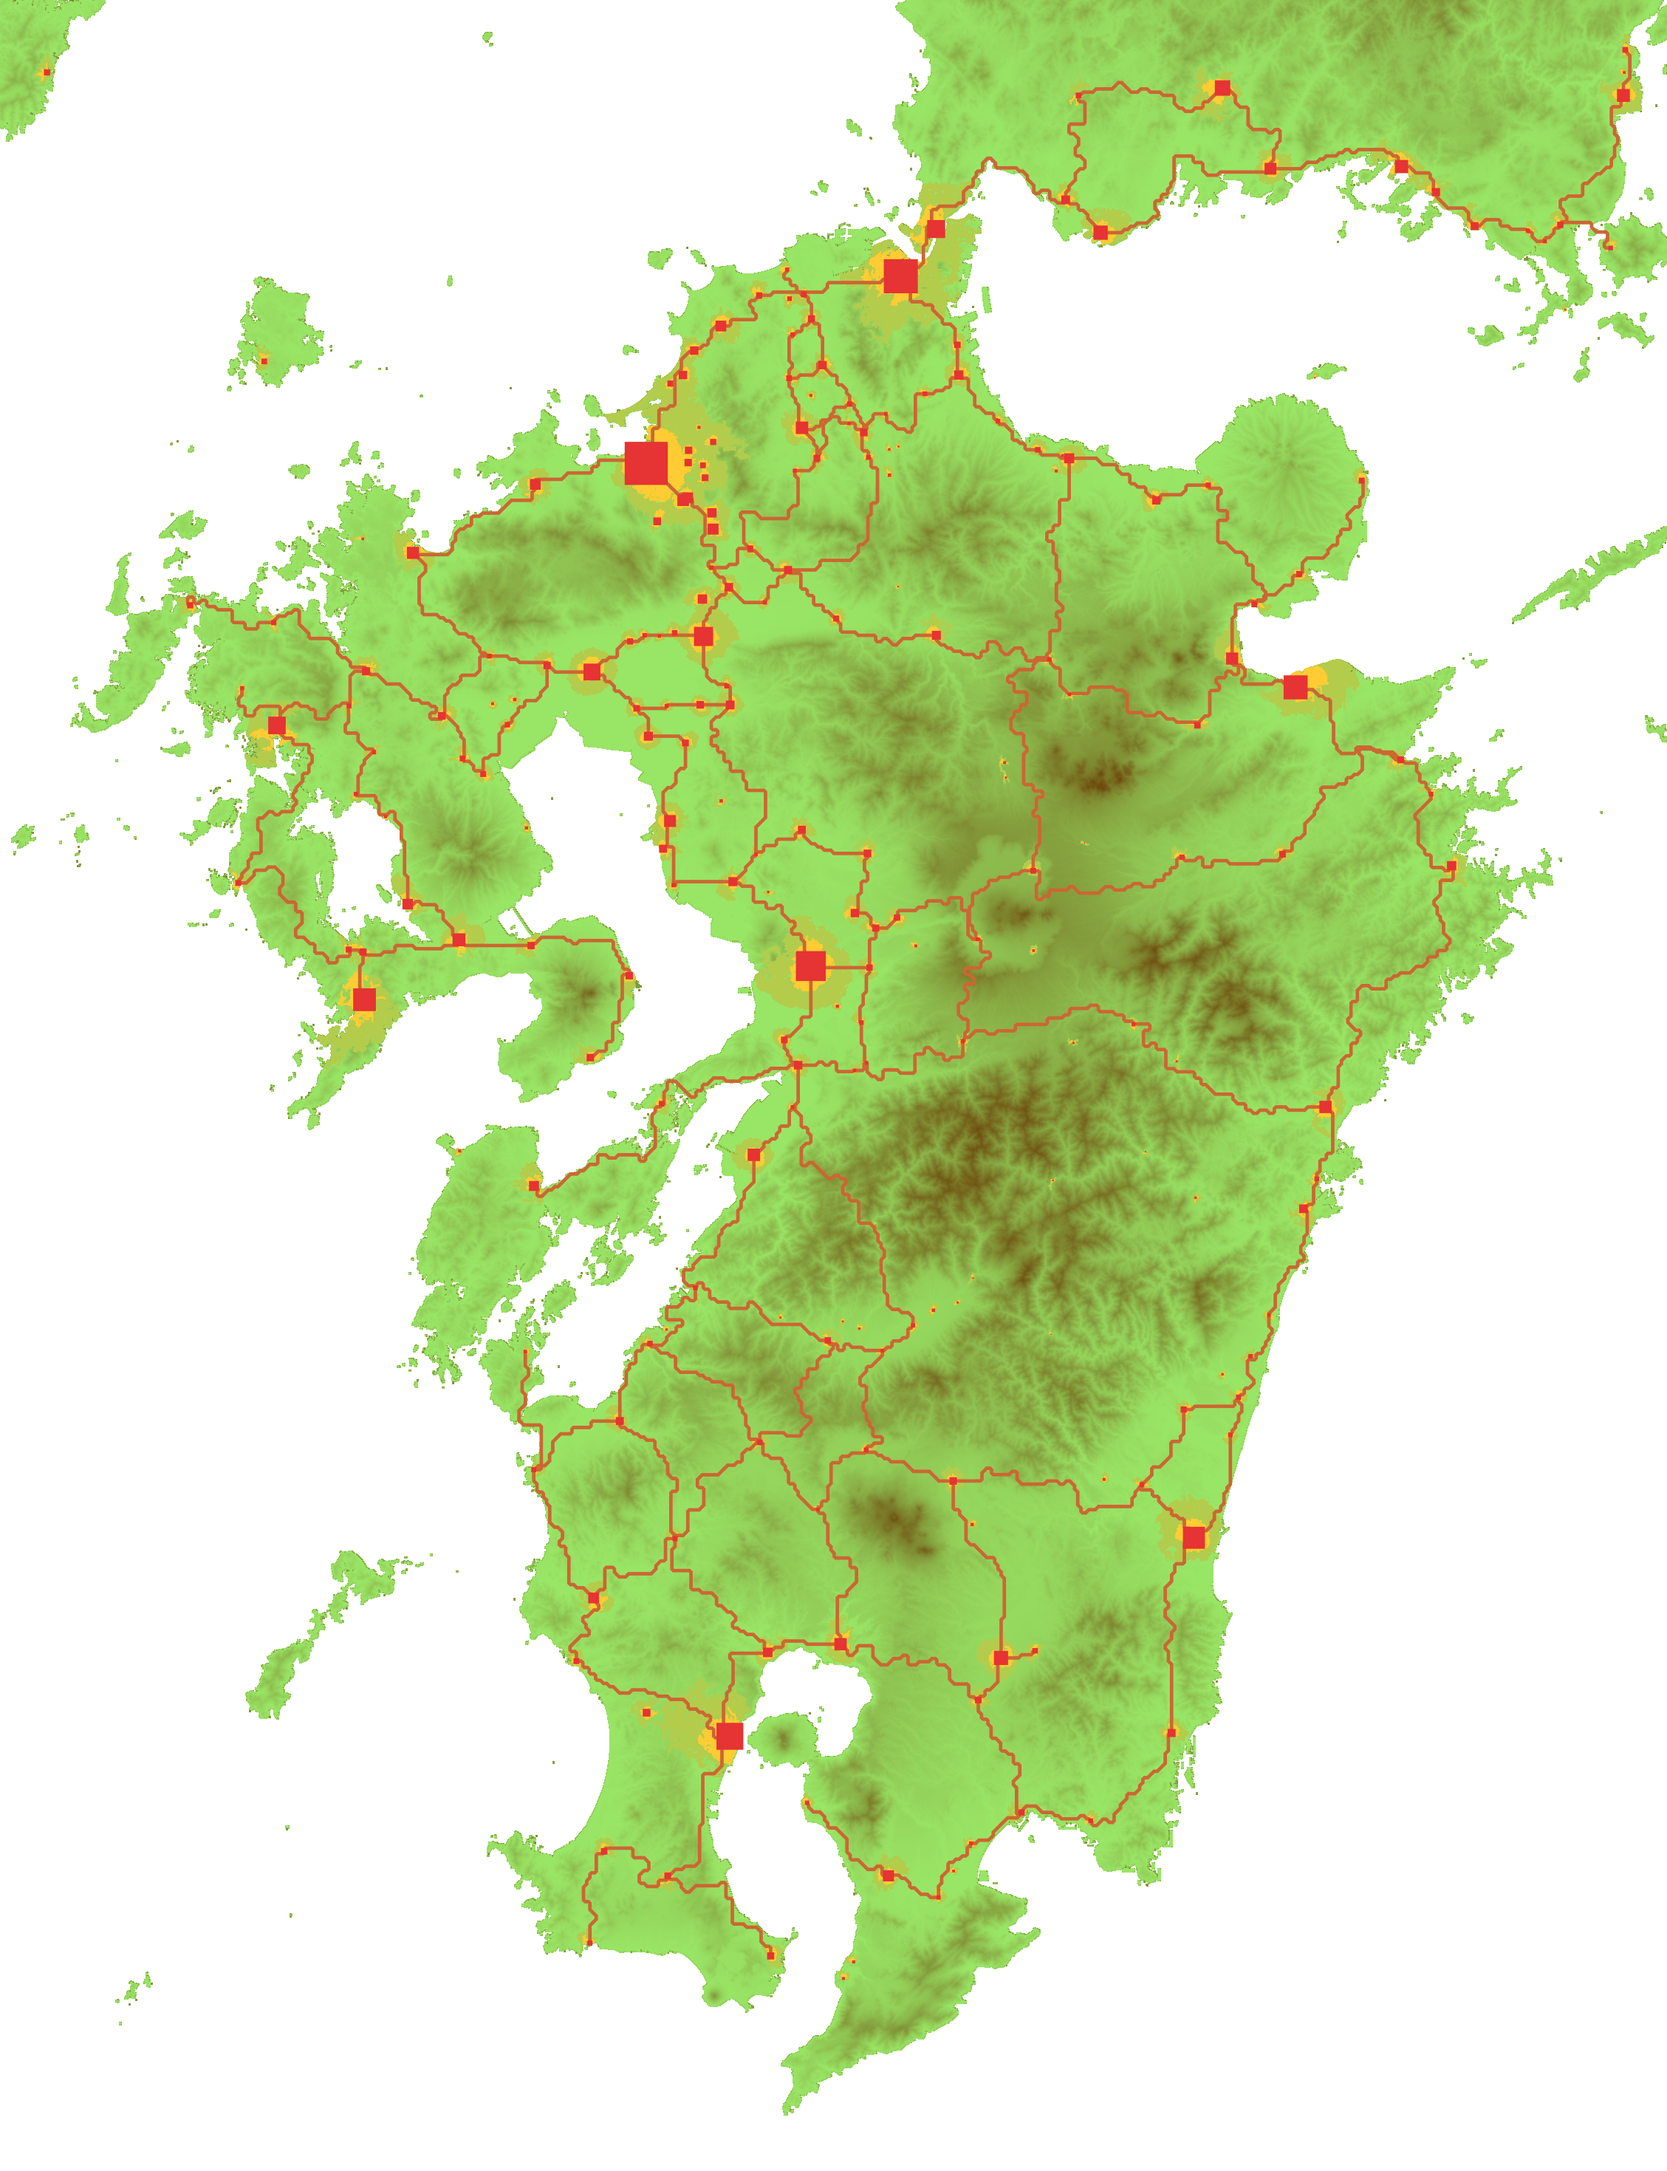
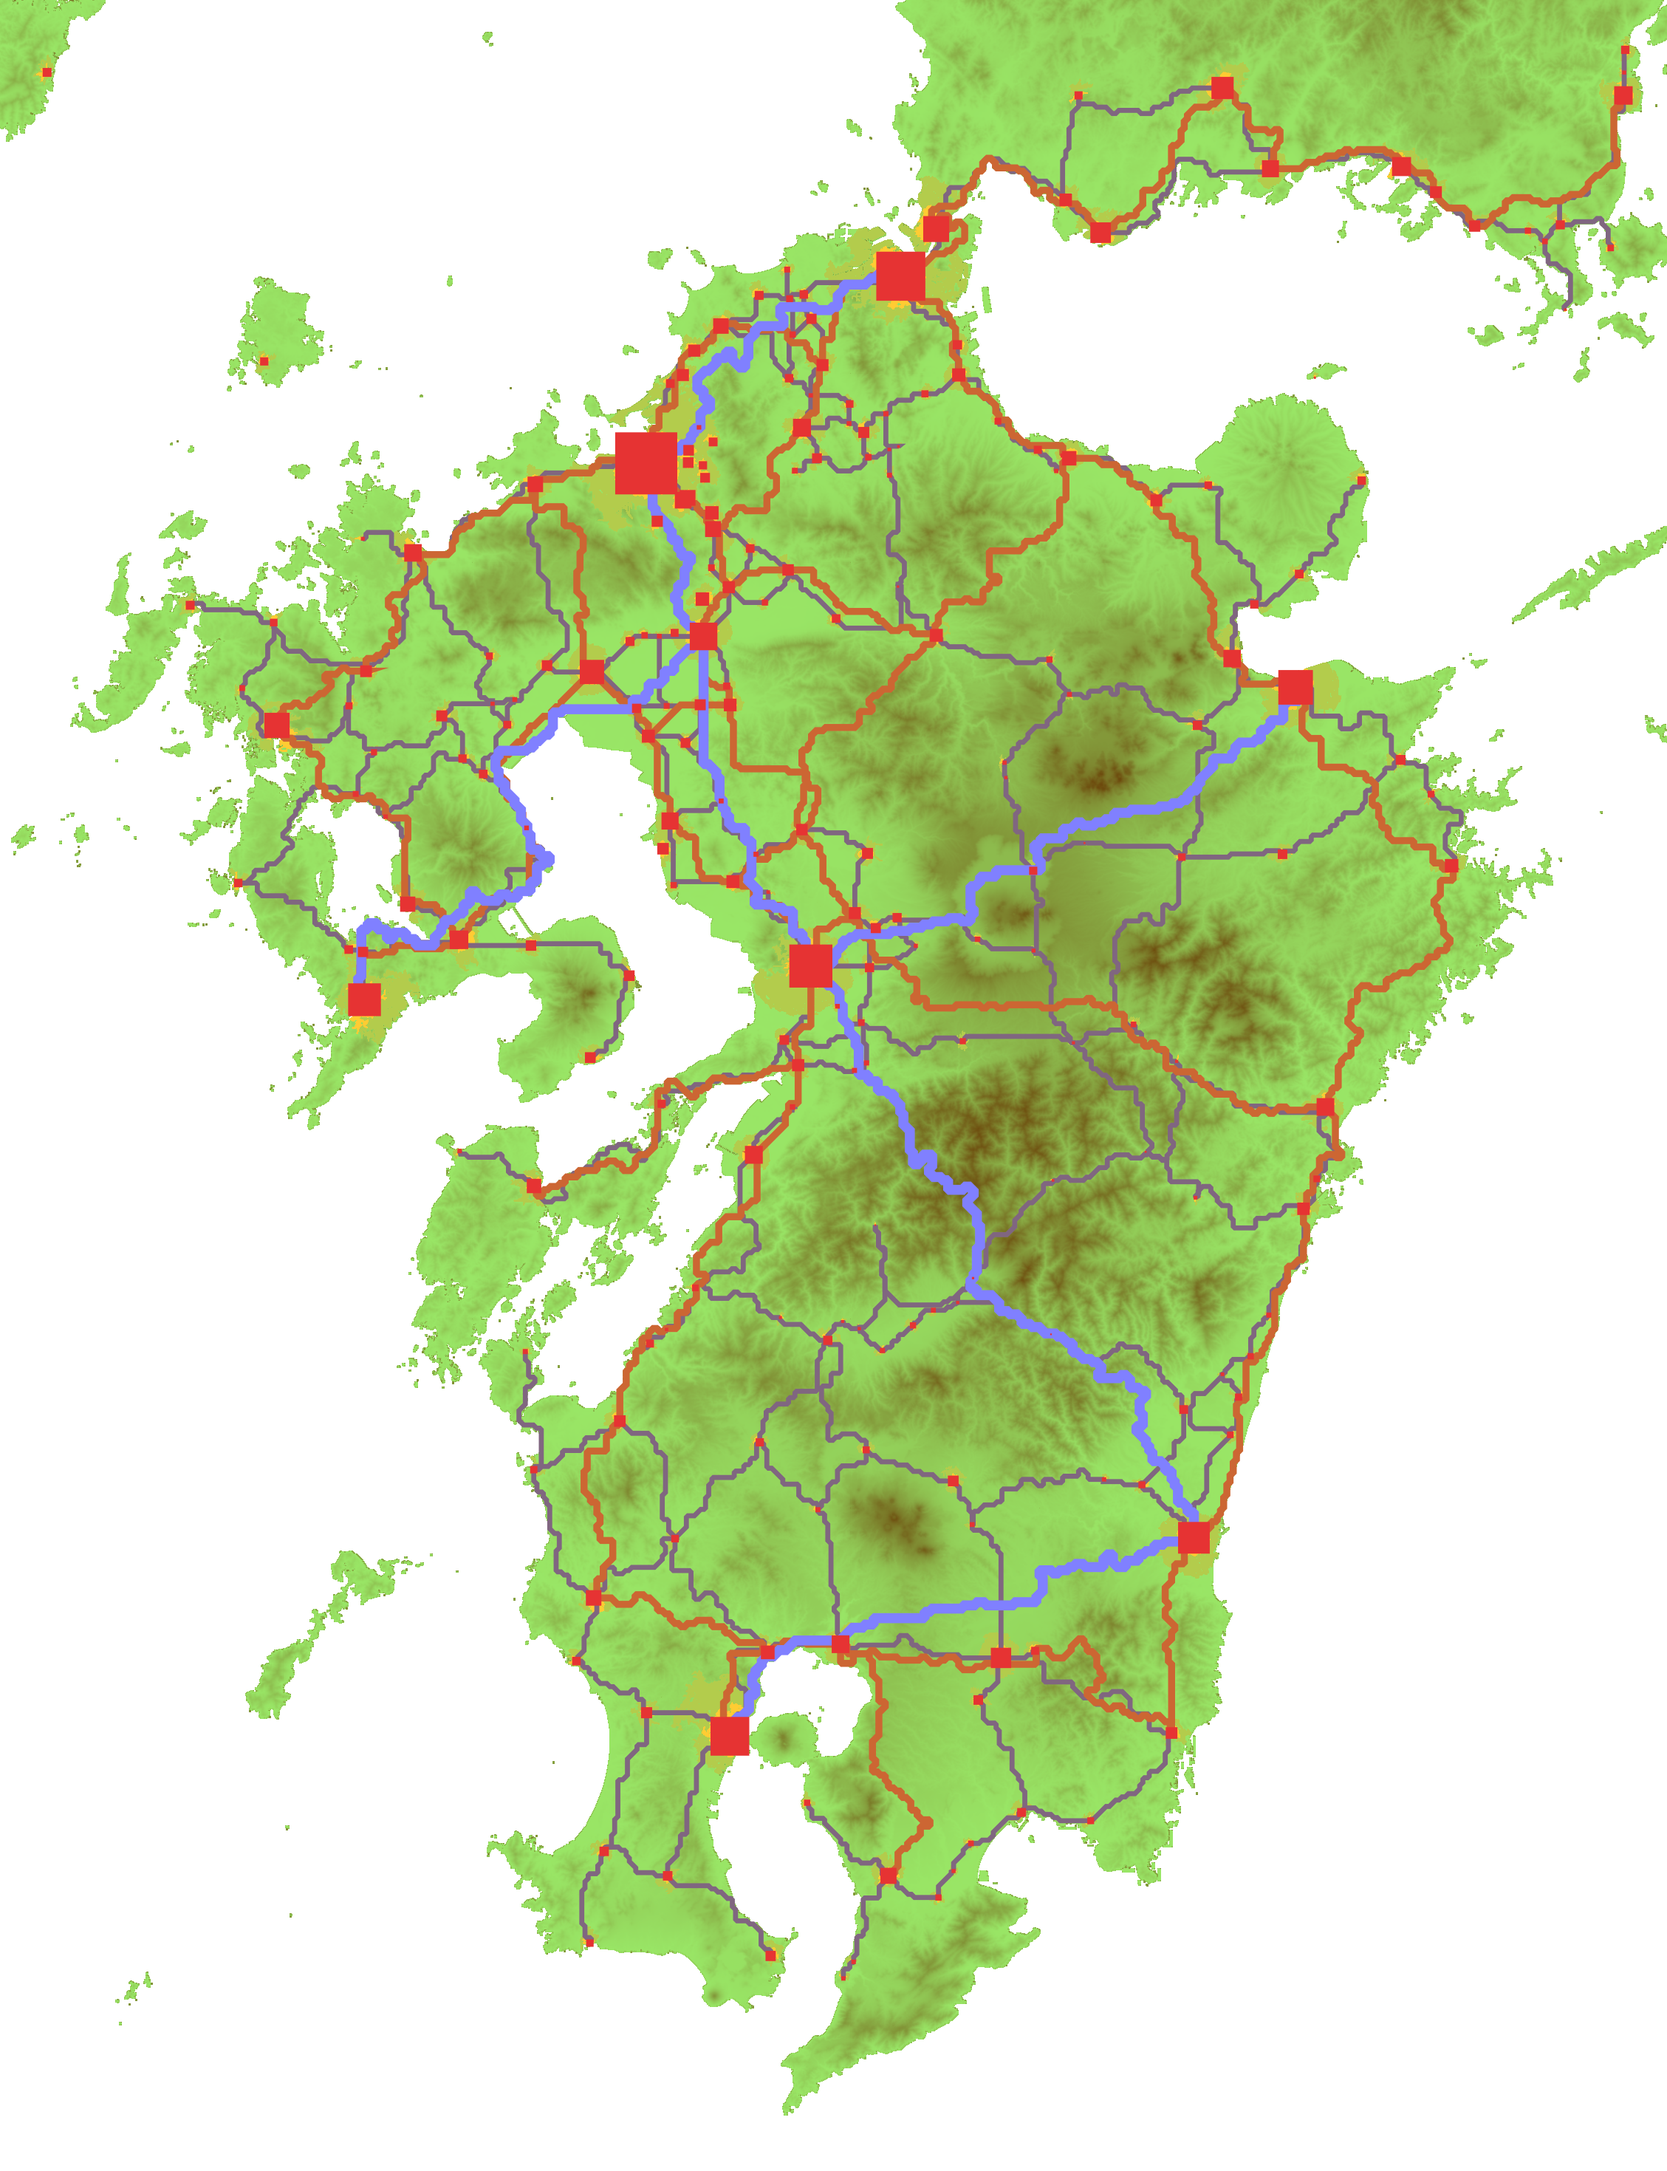
Pathの複数定義を可能に

diff --git a/library/path_alg.go b/library/path_alg.go
@@ -36,8 +36,18 @@ type SpHost struct{
 	Max_path_distance_per_city_distance float64
 	Max_bridge_distance float64
 	Max_city_distance float64
-	
+
+	Path_r float64
+	Path_g float64
+	Path_b float64
+	Path_width float64
+	Mark_r float64
+	Mark_g float64
+	Mark_b float64
+	Mark_width float64
+
 	Project_name string
+	Latitude_per_pixel float64
 
 	Heightdata [][]int
 	Citydata []City
@@ -79,7 +89,7 @@ func ToLgLtFix(lglt LgLt) LgLtFix{
 
 func (host *SpHost) ApplyCommonArgument(argv []string) int{
 	
-	if len(argv) != 30 { return -1 }
+	if len(argv) != 38 { return -1 }
 	host.Image_pixel_w = Atoi(argv[1])
 	host.Image_pixel_h = Atoi(argv[2])
 	host.Data_digit = Atoi(argv[3])
@@ -94,6 +104,7 @@ func (host *SpHost) ApplyCommonArgument(argv []string) int{
 	host.Urbandata = RequestUrbanData(argv[10], host.Image_pixel_w, host.Image_pixel_h, host.Data_digit)
 	host.UrbanAreadata = RequestUrbanAreaData(argv[11], host.Image_pixel_w, host.Image_pixel_h, host.Data_digit)
 	
+	host.Latitude_per_pixel = (host.Latitude_s-host.Latitude_e)/float64(host.Image_pixel_h)
 	host.Height_score = Atof(argv[12])
 	host.Height_difference_score = Atof(argv[13])
 	host.Distance_score = Atof(argv[14])
@@ -105,7 +116,7 @@ func (host *SpHost) ApplyCommonArgument(argv []string) int{
 	host.Kruskal_path_max_cross = Atoi(argv[20])
 	host.Path_release_interval = Atof(argv[21])
 	host.Path_draft_interval = Atof(argv[22])
-	host.Urban_area_interval = (host.Latitude_s-host.Latitude_e)/float64(host.Image_pixel_h)
+	host.Urban_area_interval = host.Latitude_per_pixel
 	host.Urban_area_height_difference_score = Atof(argv[23])
 	host.Urban_wide_area_density = Atoi(argv[24])
 	host.Urban_central_area_density = Atoi(argv[25])
@@ -113,6 +124,15 @@ func (host *SpHost) ApplyCommonArgument(argv []string) int{
 	host.Max_bridge_distance = Atof(argv[27])
 	host.Max_city_distance = Atof(argv[28])
 	host.Project_name = argv[29]
+
+	host.Path_r = Atof(argv[30])
+	host.Path_g = Atof(argv[31])
+	host.Path_b = Atof(argv[32])
+	host.Path_width = math.Abs(Atof(argv[33])/host.Latitude_per_pixel)
+	host.Mark_r = Atof(argv[34])
+	host.Mark_g = Atof(argv[35])
+	host.Mark_b = Atof(argv[36])
+	host.Mark_width = math.Abs(Atof(argv[37])/host.Latitude_per_pixel)
 	return 1
 }
 
@@ -139,7 +159,7 @@ func (host *SpHost) Write_path_point(lg, lt float64){
 
 func (host *SpHost) Init_writer(file string){
 	var err error
-	host.Pathdata_file, err = os.Create(file)
+	host.Pathdata_file, err = os.OpenFile(file, os.O_APPEND|os.O_CREATE|os.O_WRONLY, 0644)
     if err != nil {
 		fmt.Println("Error : simpath : Failed to create file.")
 		os.Exit(2)

diff --git a/simpath/main.go b/simpath/main.go
@@ -27,8 +27,6 @@ func main(){
 	host.Init()
 	host.Init_writer(argv[9])
 
-	
-
 	type Edge struct{
 		a int
 		b int
@@ -187,18 +185,10 @@ func main(){
 			host.Cityindex[host.UrbanAreadata[edge_list[i].a].Name],
 			host.Cityindex[host.UrbanAreadata[edge_list[i].b].Name],
 			host.Path_release_interval, -1, false)
-		host.Register_new_path(3.0, 0.8, 0.4, 0.2)
+		host.Register_new_path(host.Path_width, host.Path_r, host.Path_g, host.Path_b)
 		for _, ptar := range path {
 			host.Write_path_point(ptar.Longitude, ptar.Latitude)
 		}
-		/*
-		if host.UrbanAreadata[edge_list[i].a].Name == "福岡市" {
-			fmt.Println(host.UrbanAreadata[edge_list[i].b].Name)
-		}
-		if host.UrbanAreadata[edge_list[i].b].Name == "福岡市" {
-			fmt.Println(host.UrbanAreadata[edge_list[i].a].Name)
-		}
-		*/
 	}
 
 	host.Writer.Flush()

diff --git a/data_output/main.go b/data_output/main.go
@@ -93,8 +93,8 @@ func main(){
 	for _, cp := range host.Citydata {
 		point_lg := library.GetXFromLongitude(cp.Longitude, host.Longitude_s, host.Longitude_e, host.Image_pixel_w)
 		point_lt := library.GetYFromLatitude(cp.Latitude, host.Latitude_s, host.Latitude_e, host.Image_pixel_h)
-		surface.SetSourceRGB(0.9, 0.2, 0.2)
-		mark_size := 30.0*math.Sqrt(float64(cp.Population)/1000000.0)
+		surface.SetSourceRGB(host.Mark_r, host.Mark_g, host.Mark_b)
+		mark_size := host.Mark_width*math.Sqrt(float64(cp.Population)/1000000.0)
 		mark_size_f := mark_size*fix_length
 		surface.Rectangle(point_lg-mark_size_f/2,
 						  point_lt-mark_size_f/2,
@@ -102,8 +102,6 @@ func main(){
 		surface.Fill()
 	}
 	
-
-
 	surface.WriteToPNG("../"+host.Project_name+".png")
 	surface.Finish()
 }
